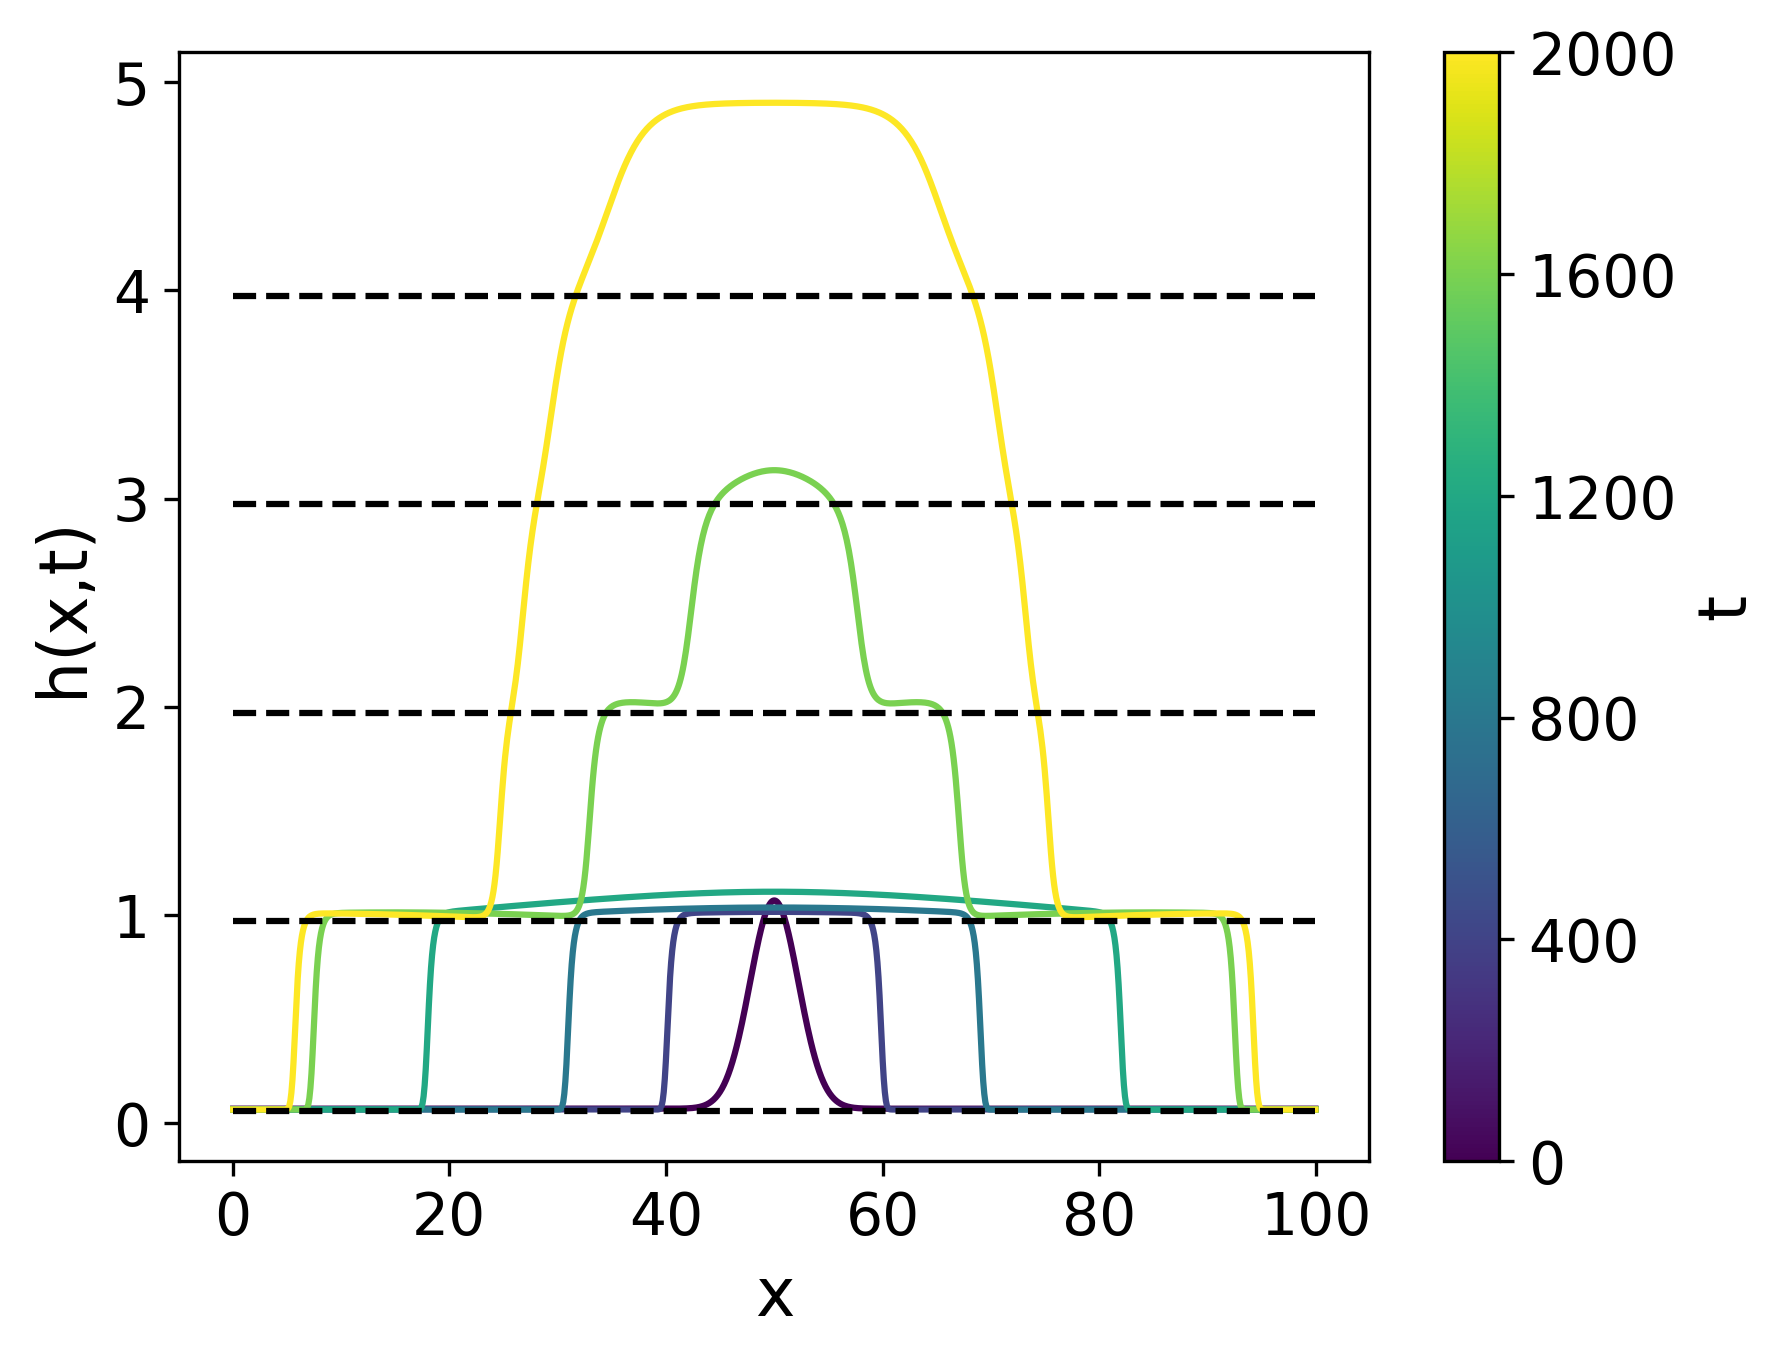
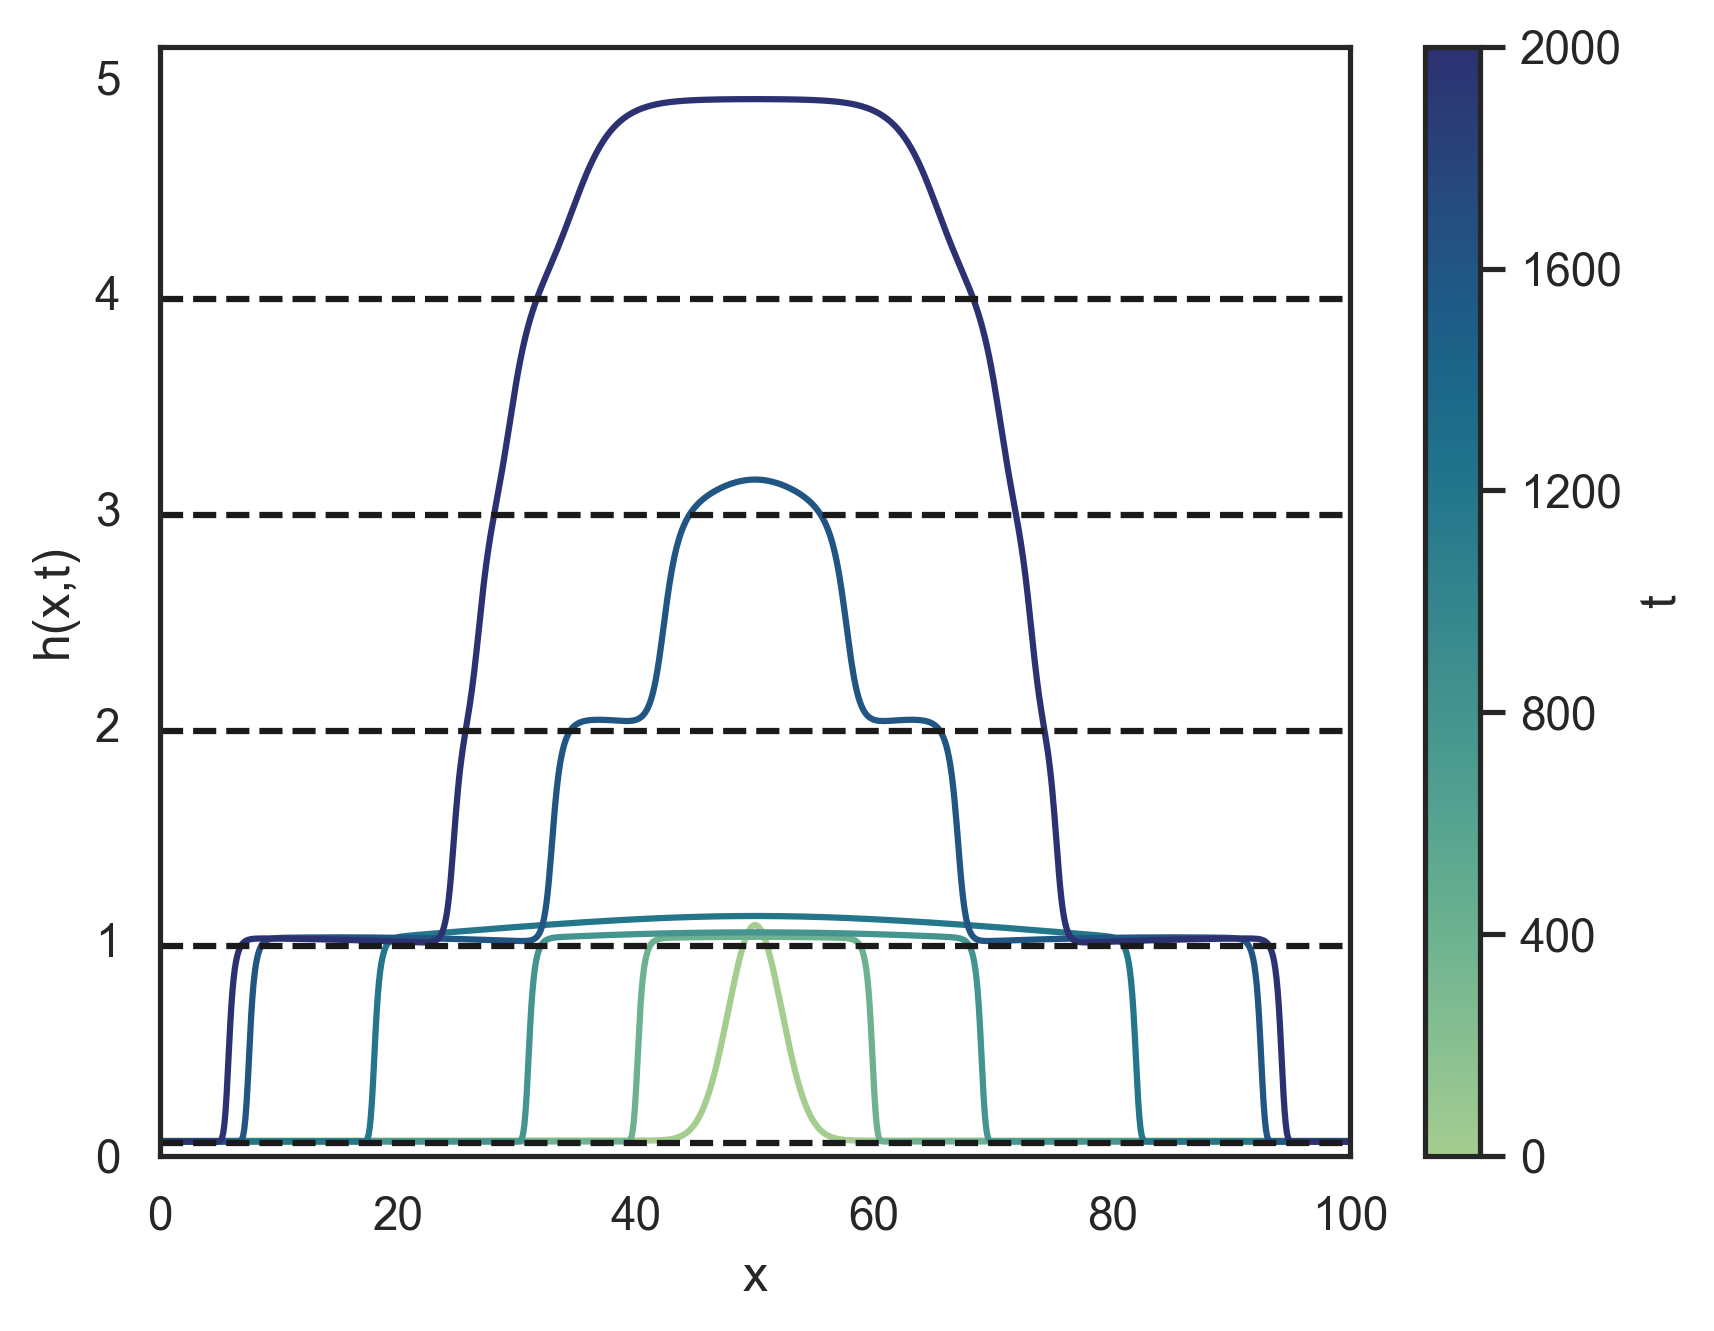
New colorbar plots saved

diff --git a/OneD_FDM_simple_model.py b/OneD_FDM_simple_model.py
@@ -203,8 +203,8 @@ class FDM_OneD_Thin_Film_Model(OneD_Base_Model):
 
 if __name__ == "__main__":
     
-    params = {'amplitude': 1.0, 'g': 0.1, 'L': 100, 'N': 1024, 'epsilon': 0.5}
-    T = 100
+    params = {'amplitude': 1.0, 'g': 10**(-3), 'L': 100, 'N': 1024, 'epsilon': 0.5}
+    T = 20000
     model = FDM_OneD_Thin_Film_Model(use_numba= False, **params)
     #t_eval = [500, 1000, 1250, 1500, 1750, 2000, 2250, 2500]
     t_eval = np.linspace(0, T, 6)
@@ -222,12 +222,12 @@ if __name__ == "__main__":
         f = model.f
     )
 
-    plot_filename = 'thin_film_g10-2_multilayer_regime'
-    save_filename = "Results/values/thin_film_g10-2_multilayer_regime.npz"
+    plot_filename = 'thin_film_g10-3_breakdown_solution'
+    save_filename = "Results/values/thin_film_profile.npz"
 
     figure_handler = fh.FigureHandler(model)
     model.save_profile_values(times, H, save_filename)
-    figure_handler.plot_profiles(H.T, times, pot_minima = h_mins, plot_filename = None)
+    figure_handler.plot_profiles(H.T, times, pot_minima = h_mins, plot_filename = plot_filename)
     #figure_handler.plot_growth(H.T, times)
     #figure_handler.plot_binding_energy(model.f, filename = "binding_potential")
     #figure_handler.plot_growth_function(model.growth_term, filename = "growth_function")

diff --git a/figure_handler.py b/figure_handler.py
@@ -100,9 +100,9 @@ class FigureHandler:
         cbar.set_label("t")
         ax.set_xlabel('x')
         ax.set_ylabel('h(x,t)')
-        #ax.set_xlim(30, 70)
         ax.set_xlim(0, self.model.params['L'])
         ax.set_ylim(bottom = 0)
+        #ax.set_xlim(30, 70)
         #plt.legend(loc = 'right')
         #ax.grid(True)
         if plot_filename:
